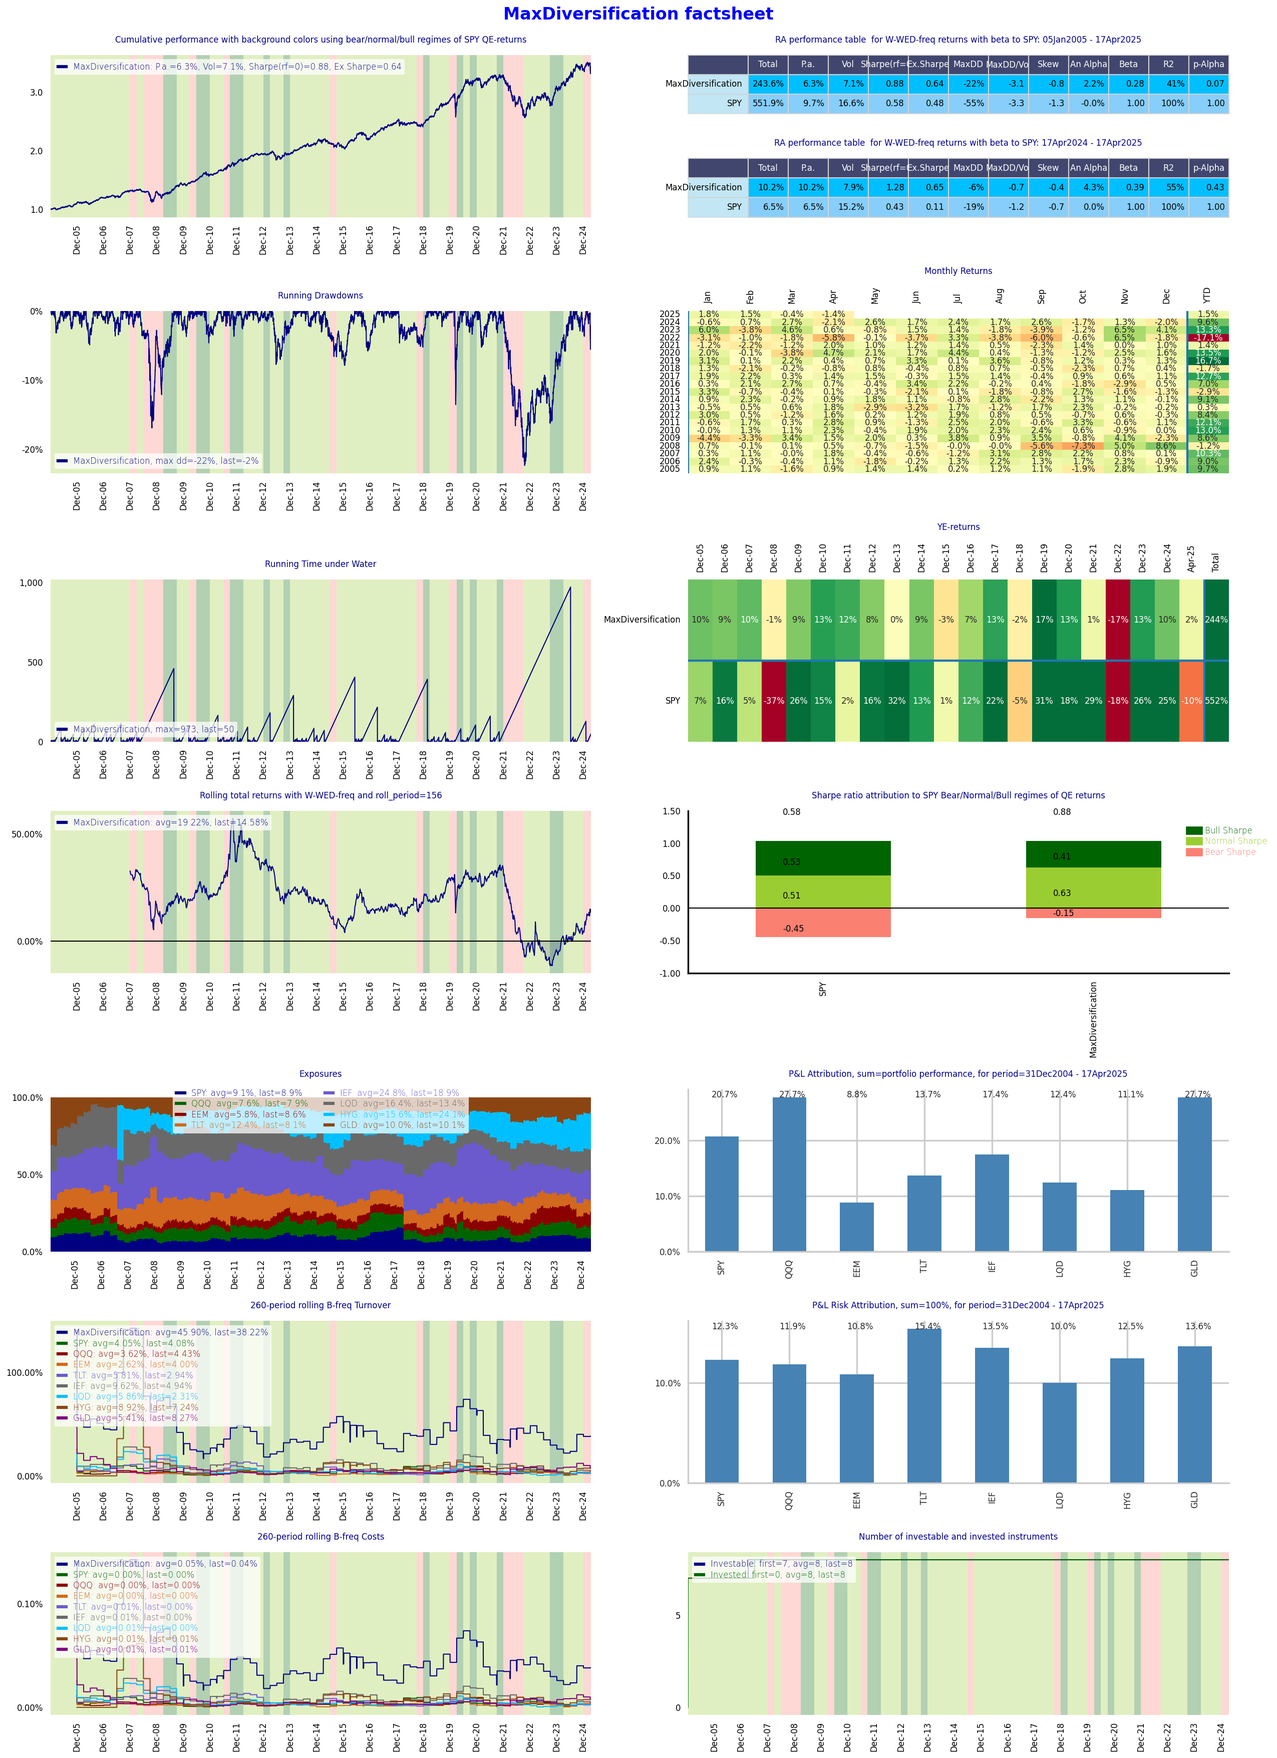
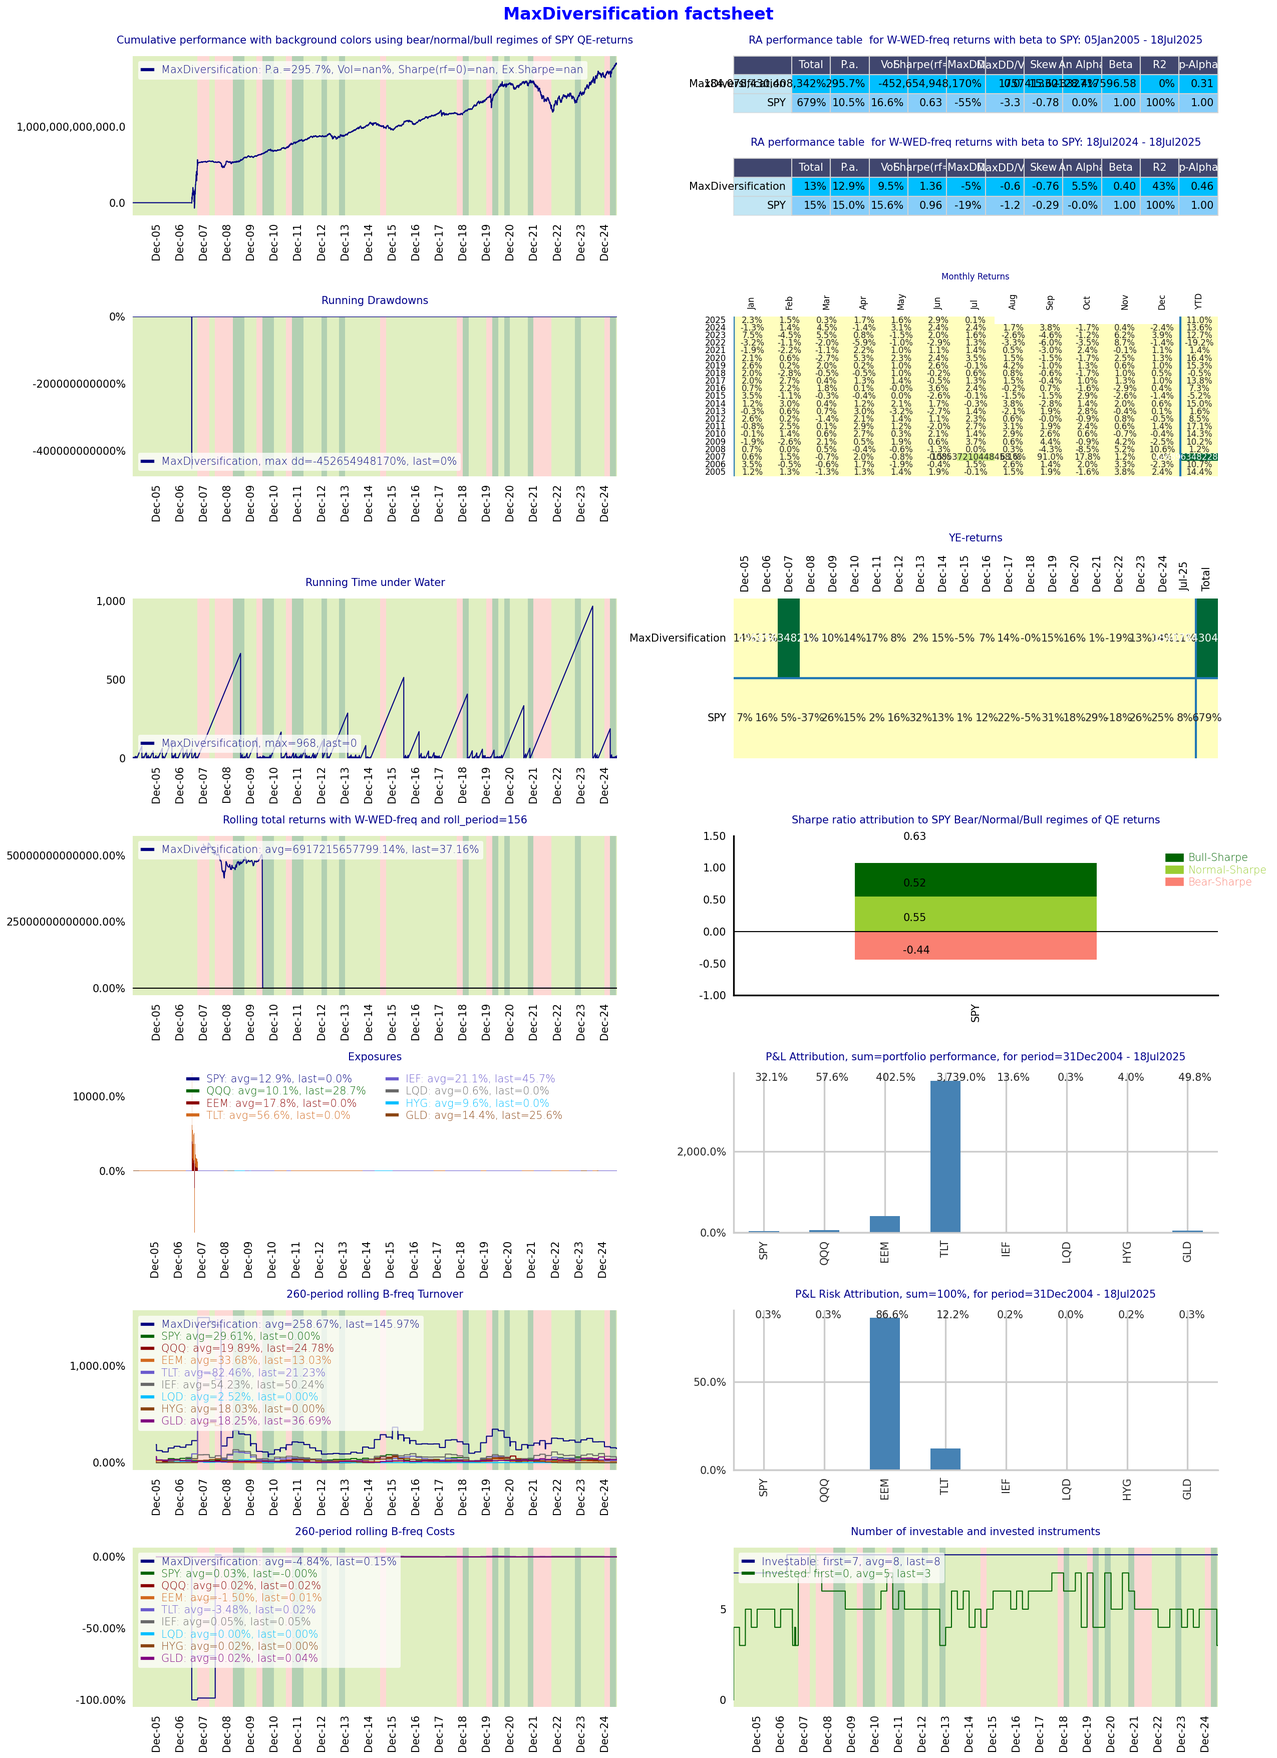
add end date for all yf.download() to comply with yfinance>=0.2.65

diff --git a/optimalportfolios/examples/crypto_allocation/load_prices.py b/optimalportfolios/examples/crypto_allocation/load_prices.py
@@ -48,13 +48,13 @@ def update_prices_with_yf() -> pd.DataFrame:
     bal = create_balanced_price()
 
     # REET starts from Jul 08, 2014 - use IYR for backfill
-    iyr = yf.download('IYR', start=None, end=None, ignore_tz=True)['Close'].rename(Assets.RE.value)
-    reet = yf.download('REET', start=None, end=None, ignore_tz=True)['Close'].rename(Assets.RE.value)
+    iyr = yf.download('IYR', start="2003-12-31", end=None, ignore_tz=True, auto_adjust=True)['Close'].rename(Assets.RE.value)
+    reet = yf.download('REET', start="2003-12-31", end=None, ignore_tz=True, auto_adjust=True)['Close'].rename(Assets.RE.value)
     re = qis.bfill_timeseries(df_newer=reet, df_older=iyr, is_prices=True)
 
     # COMT starts from 2014-10-16, use GSG for backfill
-    coms0 = yf.download('GSG', start=None, end=None, ignore_tz=True)['Close'].rename(Assets.COMS.value)
-    coms1 = yf.download('COMT', start=None, end=None, ignore_tz=True)['Close'].rename(Assets.COMS.value)
+    coms0 = yf.download('GSG', start="2003-12-31", end=None, ignore_tz=True, auto_adjust=True)['Close'].rename(Assets.COMS.value)
+    coms1 = yf.download('COMT', start="2003-12-31", end=None, ignore_tz=True, auto_adjust=True)['Close'].rename(Assets.COMS.value)
     coms = qis.bfill_timeseries(df_newer=coms1, df_older=coms0, is_prices=True)
 
     # use local copies
@@ -63,8 +63,8 @@ def update_prices_with_yf() -> pd.DataFrame:
     macro = qis.load_df_from_excel(file_name=MACRO_PRICE, local_path=LOCAL_PATH).iloc[:, 0].rename(Assets.MACRO.value)
 
     # etfs
-    gld = yf.download('GLD', start=None, end=None, ignore_tz=True)['Close'].rename(Assets.GLD.value)
-    pe = yf.download('PSP', start=None, end=None, ignore_tz=True)['Close'].rename(Assets.PE.value)
+    gld = yf.download('GLD', start="2003-12-31", end=None, ignore_tz=True, auto_adjust=True)['Close'].rename(Assets.GLD.value)
+    pe = yf.download('PSP', start="2003-12-31", end=None, ignore_tz=True, auto_adjust=True)['Close'].rename(Assets.PE.value)
 
     prices = pd.concat([bal, btc, eth, hf, pe, re, macro, cta, coms, gld], axis=1)
     # to business day frequency
@@ -87,13 +87,13 @@ def update_prices_with_bloomberg() -> pd.DataFrame:
     bal = create_balanced_price()
 
     # REET starts from Jul 08, 2014 - use IYR for backfill
-    iyr = yf.download('IYR', start=None, end=None, ignore_tz=True)['Close'].rename(Assets.RE.value)
-    reet = yf.download('REET', start=None, end=None, ignore_tz=True)['Close'].rename(Assets.RE.value)
+    iyr = yf.download('IYR', start="2003-12-31", end=None, ignore_tz=True, auto_adjust=True)['Close'].rename(Assets.RE.value)
+    reet = yf.download('REET', start="2003-12-31", end=None, ignore_tz=True, auto_adjust=True)['Close'].rename(Assets.RE.value)
     re = qis.bfill_timeseries(df_newer=reet, df_older=iyr, is_prices=True)
 
     # COMT starts from 2014-10-16, use GSG for backfill
-    coms0 = yf.download('GSG', start=None, end=None, ignore_tz=True)['Close'].rename(Assets.COMS.value)
-    coms1 = yf.download('COMT', start=None, end=None, ignore_tz=True)['Close'].rename(Assets.COMS.value)
+    coms0 = yf.download('GSG', start="2003-12-31", end=None, ignore_tz=True, auto_adjust=True)['Close'].rename(Assets.COMS.value)
+    coms1 = yf.download('COMT', start="2003-12-31", end=None, ignore_tz=True, auto_adjust=True)['Close'].rename(Assets.COMS.value)
     coms = qis.bfill_timeseries(df_newer=coms1, df_older=coms0, is_prices=True)
 
     # use bbg
@@ -102,8 +102,8 @@ def update_prices_with_bloomberg() -> pd.DataFrame:
     macro = fetch_field_timeseries_per_tickers(tickers={'HFRIMDT Index': Assets.MACRO.value}).iloc[:, 0]
 
     # etfs
-    gld = yf.download('GLD', start=None, end=None, ignore_tz=True)['Close'].rename(Assets.GLD.value)
-    pe = yf.download('PSP', start=None, end=None, ignore_tz=True)['Close'].rename(Assets.PE.value)
+    gld = yf.download('GLD', start="2003-12-31", end=None, ignore_tz=True, auto_adjust=True)['Close'].rename(Assets.GLD.value)
+    pe = yf.download('PSP', start="2003-12-31", end=None, ignore_tz=True, auto_adjust=True)['Close'].rename(Assets.PE.value)
 
     prices = pd.concat([bal, btc, eth, hf, pe, re, macro, cta, coms, gld], axis=1).sort_index()
     # to business day frequency
@@ -171,7 +171,7 @@ def load_prices(assets: List[Assets] = None,
 
 
 def load_risk_free_rate() -> pd.Series:
-    return yf.download('^IRX', start=None, end=None)['Close'].dropna() / 100.0
+    return yf.download('^IRX', start="2003-12-31", end=None, ignore_tz=True, auto_adjust=True)['Close'].dropna() / 100.0
 
 
 class UnitTests(Enum):
@@ -209,7 +209,7 @@ def run_unit_test(unit_test: UnitTests):
     elif unit_test == UnitTests.CREATE_BALANCED_PRICE:
         price = create_balanced_price()
         print(price)
-        bal = yf.download('AOR', start=None, end=None, ignore_tz=True)['Close'].rename('AOR')
+        bal = yf.download('AOR', start="2003-12-31", end=None, ignore_tz=True, auto_adjust=True)['Close'].rename('AOR')
         prices = pd.concat([price, bal], axis=1).dropna()
         qis.plot_prices_with_dd(prices=prices)
 
@@ -217,7 +217,7 @@ def run_unit_test(unit_test: UnitTests):
         assets = ['IYR', 'REZ', 'REET']
         prices = []
         for asset in assets:
-            prices.append(yf.download(asset, start=None, end=None, ignore_tz=True)['Close'].rename(asset))
+            prices.append(yf.download(asset, start="2003-12-31", end=None, ignore_tz=True, auto_adjust=True)['Close'].rename(asset))
         prices = pd.concat(prices, axis=1).dropna()
         qis.plot_prices_with_dd(prices=prices)
 

diff --git a/optimalportfolios/lasso/lasso_model_estimator.py b/optimalportfolios/lasso/lasso_model_estimator.py
@@ -96,7 +96,7 @@ class LassoModel:
         cutoff = None
         # also use lasso for 1-d y
         if self.model_type == LassoModelType.LASSO or y_np.shape[1] == 1:
-            estimated_beta = solve_lasso_cvx_problem(x=x_np,
+            estimated_beta, _, _ = solve_lasso_cvx_problem(x=x_np,
                                                      y=y_np,
                                                      reg_lambda=self.reg_lambda,
                                                      span=span,
@@ -205,8 +205,9 @@ def solve_lasso_cvx_problem(x: np.ndarray,
                             verbose: bool = False,
                             solver: str = 'ECOS_BB',
                             nonneg: bool = False,
-                            apply_independent_nan_filter: bool = True
-                            ) -> np.ndarray:
+                            apply_independent_nan_filter: bool = True,
+                            is_declining: bool = False
+                            ) -> Tuple[np.ndarray, np.ndarray, np.ndarray]:
     """
     solve lasso for n dimensional matrix of dependent variables y
     each column in y is estimated using independent lasso model
@@ -230,14 +231,17 @@ def solve_lasso_cvx_problem(x: np.ndarray,
     if apply_independent_nan_filter and y.ndim == 2:
         # apply recursive 1-d estimation with independent set of non-nan basis
         betas = np.zeros((n_x, n_y))
+        alphas = np.zeros(n_y)
+        r2s = np.zeros(n_y)
         for idx in np.arange(n_y):
-            betas[:, idx] = solve_lasso_cvx_problem(x=x, y=y[:, idx],
-                                                    reg_lambda=reg_lambda,
-                                                    span=span,
-                                                    verbose=verbose,
-                                                    solver=solver,
-                                                    nonneg=nonneg)
-        return betas
+            betas[:, idx], alphas[idx], r2s[idx] = solve_lasso_cvx_problem(x=x, y=y[:, idx],
+                                                                           reg_lambda=reg_lambda,
+                                                                           span=span,
+                                                                           verbose=verbose,
+                                                                           solver=solver,
+                                                                           nonneg=nonneg,
+                                                                           is_declining=is_declining)
+        return betas, alphas, r2s
 
     # select non nan basis
     x, y = qis.select_non_nan_x_y(x=x, y=y)
@@ -254,7 +258,7 @@ def solve_lasso_cvx_problem(x: np.ndarray,
     t = x.shape[0]
     if t < 5:  # too little observations
         print(f"small number of non nans in lasso t={t}")
-        return nan_vector
+        return nan_vector, np.nan, np.nan
 
     # compute weights
     if span is not None:
@@ -262,21 +266,39 @@ def solve_lasso_cvx_problem(x: np.ndarray,
     else:
         weights = np.ones(t)
 
+    constraints = None
     if n_y > 1:
         weights = np.tile(weights, (n_y, 1)).T  # map to columns
+    else:
+        if is_declining:
+            constraints = [cvx.sum(beta) <= 0.50]
+            for idx in np.arange(n_x):
+                if idx < n_x-1:
+                    constraints += [beta[idx] - beta[idx+1] >= 0.0]
 
     objective_fun = (1.0 / t) * cvx.sum_squares(cvx.multiply(weights, x @ beta - y)) + reg_lambda * cvx.norm1(beta)
     objective = cvx.Minimize(objective_fun)
-    problem = cvx.Problem(objective)
+    problem = cvx.Problem(objective, constraints)
     problem.solve(verbose=verbose, solver=solver)
 
     estimated_beta = beta.value
     if estimated_beta is None:
         # raise ValueError(f"not solved")
         print(f"not solved")
-        return nan_vector
+        return nan_vector, np.nan, np.nan
     else:
-        return estimated_beta
+        weights2 = np.square(weights)
+        norm_weights = weights2 / np.nansum(weights2, axis=0)
+        residuals = (x @ estimated_beta - y)
+        alpha = np.nansum(norm_weights * residuals, axis=0)
+        ss_res = np.nansum(norm_weights * np.square(residuals), axis=0)
+        ss_total = np.nansum(norm_weights * np.square((y - np.nanmean(y, axis=0))), axis=0)
+        r2 = 1.0 - np.divide(ss_res, ss_total, where=ss_total > 0.0)
+
+        print(alpha)
+        print(r2)
+
+        return estimated_beta, alpha, r2
 
 
 def solve_group_lasso_cvx_problem(x: np.ndarray,

diff --git a/optimalportfolios/examples/lasso_estimation.py b/optimalportfolios/examples/lasso_estimation.py
@@ -33,8 +33,8 @@ benchmark_tickers = ['SPY', 'IEF', 'LQD', 'USO', 'GLD', 'UUP']
 asset_group_loadings = qis.set_group_loadings(group_data=instrument_data)
 print(asset_group_loadings)
 
-asset_prices = yf.download(asset_tickers, start=None, end=None)['Close'][asset_tickers].asfreq('B', method='ffill')
-benchmark_prices = yf.download(benchmark_tickers, start=None, end=None)['Close'][benchmark_tickers].reindex(index=asset_prices.index, method='ffill')
+asset_prices = yf.download(asset_tickers, start="2003-12-31", end=None, ignore_tz=True, auto_adjust=True)['Close'][asset_tickers].asfreq('B', method='ffill')
+benchmark_prices = yf.download(benchmark_tickers, start="2003-12-31", end=None, ignore_tz=True, auto_adjust=True)['Close'][benchmark_tickers].reindex(index=asset_prices.index, method='ffill')
 
 y = qis.to_returns(asset_prices, freq='ME', drop_first=True)
 x = qis.to_returns(benchmark_prices, freq='ME', drop_first=True)
@@ -48,7 +48,7 @@ params = dict(reg_lambda=1e-5, span=24, nonneg=False)
 #beta2 = pd.DataFrame(beta2, index=benchmark_tickers, columns=asset_tickers)
 #beta2 = beta2.where(np.abs(beta2) > 1e-4, other=np.nan)
 
-beta3 = solve_lasso_cvx_problem(x=x, y=y, **params, apply_independent_nan_filter=False)
+beta3, _, _ = solve_lasso_cvx_problem(x=x, y=y, **params, apply_independent_nan_filter=False)
 beta3 = pd.DataFrame(beta3, index=benchmark_tickers, columns=asset_tickers)
 beta3 = beta3.where(np.abs(beta3) > 1e-4, other=np.nan)
 print(beta3)

diff --git a/optimalportfolios/examples/optimal_portfolio_backtest.py b/optimalportfolios/examples/optimal_portfolio_backtest.py
@@ -31,7 +31,7 @@ def fetch_universe_data() -> Tuple[pd.DataFrame, pd.DataFrame, pd.Series]:
                          GLD='Gold')
     tickers = list(universe_data.keys())
     group_data = pd.Series(universe_data)
-    prices = yf.download(tickers, start=None, end=None, ignore_tz=True)['Close']
+    prices = yf.download(tickers, start="2003-12-31", end=None, ignore_tz=True, auto_adjust=True)['Close']
     prices = prices[tickers]  # arrange as given
     prices = prices.asfreq('B', method='ffill')  # refill at B frequency
     benchmark_prices = prices[['SPY', 'TLT']]
@@ -40,10 +40,11 @@ def fetch_universe_data() -> Tuple[pd.DataFrame, pd.DataFrame, pd.Series]:
 
 # 2. get universe data
 prices, benchmark_prices, group_data = fetch_universe_data()
-time_period = qis.TimePeriod('31Dec2004', '17Apr2025')   # period for computing weights backtest
+print(prices)
+time_period = qis.TimePeriod('31Dec2004', '18Jul2025')   # period for computing weights backtest
 
 # 3.a. define optimisation setup
-portfolio_objective = PortfolioObjective.EQUAL_RISK_CONTRIBUTION  # define portfolio objective
+portfolio_objective = PortfolioObjective.MAX_DIVERSIFICATION  # define portfolio objective
 returns_freq = 'W-WED'  # use weekly returns
 rebalancing_freq = 'QE'  # weights rebalancing frequency: rebalancing is quarterly on WED
 span = 52  # span of number of returns_freq-returns for covariance estimation = 12y

diff --git a/optimalportfolios/examples/solvers/target_return.py b/optimalportfolios/examples/solvers/target_return.py
@@ -82,7 +82,7 @@ def fetch_benchmark_universe_data() -> Tuple[pd.DataFrame, pd.DataFrame, pd.Data
 
     tickers = list(universe_data.keys())
     group_data = pd.Series(universe_data)  # for portfolio reporting
-    prices = yf.download(tickers=tickers, start=None, end=None, ignore_tz=True)['Close'][tickers]
+    prices = yf.download(tickers=tickers, start="2003-12-31", end=None, ignore_tz=True, auto_adjust=True)['Close'][tickers]
     prices = prices.asfreq('B', method='ffill')
 
     dividends = {}
@@ -99,9 +99,9 @@ def fetch_benchmark_universe_data() -> Tuple[pd.DataFrame, pd.DataFrame, pd.Data
     yields = pd.DataFrame.from_dict(yields, orient='columns')
 
     benchmarks = ['AGG']
-    benchmark_prices = yf.download(tickers=benchmarks, start=None, end=None, ignore_tz=True)['Close']
+    benchmark_prices = yf.download(tickers=benchmarks, start="2003-12-31", end=None, ignore_tz=True, auto_adjust=True)['Close']
     print(benchmark_prices)
-    target_returns = yf.download('^IRX', start=None, end=None)['Close'].dropna() / 100.0
+    target_returns = yf.download('^IRX', start="2003-12-31", end=None, ignore_tz=True, auto_adjust=True)['Close'].dropna() / 100.0
     target_returns = target_returns.iloc[:, 0].reindex(index=prices.index).ffill().rename('Target return')
     return prices, benchmark_prices, dividends, yields, target_returns, group_data
 

diff --git a/optimalportfolios/examples/sp500_minvar.py b/optimalportfolios/examples/sp500_minvar.py
@@ -42,7 +42,7 @@ def create_sp500_universe():
         return inclusion_indicators
 
     def fetch_universe_prices(tickers: List[str]) -> pd.DataFrame:
-        prices = yf.download(tickers=tickers, start=None, end=None, ignore_tz=True)['Close']
+        prices = yf.download(tickers=tickers, start="2003-12-31", end=None, ignore_tz=True, auto_adjust=True)['Close']
         return prices[tickers]
 
     def fetch_universe_industry(tickers: List[str]) -> pd.Series:
@@ -129,7 +129,7 @@ def run_unit_test(unit_test: UnitTests):
                                              squeeze_factors=squeeze_factors)
 
         # run cross portfolio report
-        benchmark_prices = yf.download('SPY', start=None, end=None, ignore_tz=True)['Close'].asfreq('B').ffill()
+        benchmark_prices = yf.download('SPY', start="2003-12-31", end=None, ignore_tz=True, auto_adjust=True)['Close'].asfreq('B').ffill()
         multi_portfolio_data = qis.MultiPortfolioData(portfolio_datas=portfolio_datas,
                                                       benchmark_prices=benchmark_prices)
 

diff --git a/optimalportfolios/examples/lasso_covar_estimation.py b/optimalportfolios/examples/lasso_covar_estimation.py
@@ -33,8 +33,8 @@ benchmark_tickers = ['SPY', 'IEF', 'LQD', 'USO', 'GLD', 'UUP']
 asset_group_loadings = qis.set_group_loadings(group_data=group_data)
 print(asset_group_loadings)
 
-asset_prices = yf.download(asset_tickers, start=None, end=None)['Close'][asset_tickers].asfreq('B', method='ffill')
-benchmark_prices = yf.download(benchmark_tickers, start=None, end=None)['Close'][benchmark_tickers].reindex(
+asset_prices = yf.download(asset_tickers, start="2003-12-31", end=None, ignore_tz=True, auto_adjust=True)['Close'][asset_tickers].asfreq('B', method='ffill')
+benchmark_prices = yf.download(benchmark_tickers, start="2003-12-31", end=None, ignore_tz=True, auto_adjust=True)['Close'][benchmark_tickers].reindex(
     index=asset_prices.index, method='ffill')
 
 

diff --git a/optimalportfolios/examples/universe.py b/optimalportfolios/examples/universe.py
@@ -41,7 +41,7 @@ def fetch_benchmark_universe_data() -> Tuple[pd.DataFrame, pd.DataFrame, pd.Data
 
     tickers = list(universe_data.keys())
     benchmark_weights = pd.Series(benchmark_weights)
-    prices = yf.download(tickers=tickers, start=None, end=None, ignore_tz=True)['Close'][tickers]
+    prices = yf.download(tickers=tickers, start="2003-12-31", end=None, ignore_tz=True, auto_adjust=True)['Close'][tickers]
     prices = prices.asfreq('B').ffill()
     # for group lass
     ac_benchmark_prices = prices[['SPY', 'TLT', 'LQD', 'HYG', 'GSG']].rename(dict(SPY='Equities', TLT='Bonds', IG='LQD', HYG='HighYield', GLD='Commodts'))

diff --git a/optimalportfolios/examples/robust_optimisation_saa_taa/hcgl_covar_for_rolling_backtest.py b/optimalportfolios/examples/robust_optimisation_saa_taa/hcgl_covar_for_rolling_backtest.py
@@ -37,7 +37,7 @@ def fetch_universe_data() -> Tuple[pd.DataFrame, pd.DataFrame, pd.Series]:
                          GLD='Gold')
     tickers = list(universe_data.keys())
     group_data = pd.Series(universe_data)
-    prices = yf.download(tickers, start=None, end=None, ignore_tz=True)['Close']
+    prices = yf.download(tickers, start="2003-12-31", end=None, ignore_tz=True, auto_adjust=True)['Close']
     prices = prices[tickers].loc['2000':, :]  # arrange as given
     prices = prices.asfreq('B', method='ffill')  # refill at B frequency
     benchmark_prices = prices[['SPY', 'TLT']]

diff --git a/optimalportfolios/examples/long_short_optimisation.py b/optimalportfolios/examples/long_short_optimisation.py
@@ -31,7 +31,7 @@ def fetch_universe_data() -> Tuple[pd.DataFrame, pd.DataFrame, pd.Series]:
                          GLD='Gold')
     tickers = list(universe_data.keys())
     group_data = pd.Series(universe_data)
-    prices = yf.download(tickers, start=None, end=None, ignore_tz=True)['Close']
+    prices = yf.download(tickers, start="2003-12-31", end=None, ignore_tz=True, auto_adjust=True)['Close']
     prices = prices[tickers]  # arrange as given
     prices = prices.asfreq('B', method='ffill')  # refill at B frequency
     benchmark_prices = prices[['SPY', 'TLT']]

diff --git a/optimalportfolios/test_data.py b/optimalportfolios/test_data.py
@@ -24,9 +24,7 @@ UNIVERSE_DATA = dict(SPY='Equities',
 
 def update_test_prices() -> pd.DataFrame:
     tickers = list(UNIVERSE_DATA.keys())
-    prices = yf.download(tickers=tickers,
-                         start=None, end=None,
-                         ignore_tz=True, auto_adjust=True)
+    prices = yf.download(tickers=tickers, start="2003-12-31", end=None, ignore_tz=True, auto_adjust=True)
     prices = prices['Close']
     prices = prices.asfreq('B', method='ffill')  # rescale to business days
     prices = prices[tickers]  # align order

diff --git a/optimalportfolios/utils/gaussian_mixture.py b/optimalportfolios/utils/gaussian_mixture.py
@@ -313,7 +313,7 @@ def run_unit_test(unit_test: UnitTests):
 
     elif unit_test == UnitTests.PLOT_MIXURE:
         import yfinance as yf
-        prices = yf.download(tickers=['SPY', 'TLT'], start=None, end=None)['Close'].dropna()
+        prices = yf.download(tickers=['SPY', 'TLT'], start="2003-12-31", end=None, ignore_tz=True, auto_adjust=True)['Close'].dropna()
         perf_params = qis.PerfParams(freq='W-WED')
         kwargs = dict(fontsize=12, digits_to_show=1, sharpe_digits=2,
                       alpha_format='{0:+0.0%}',
